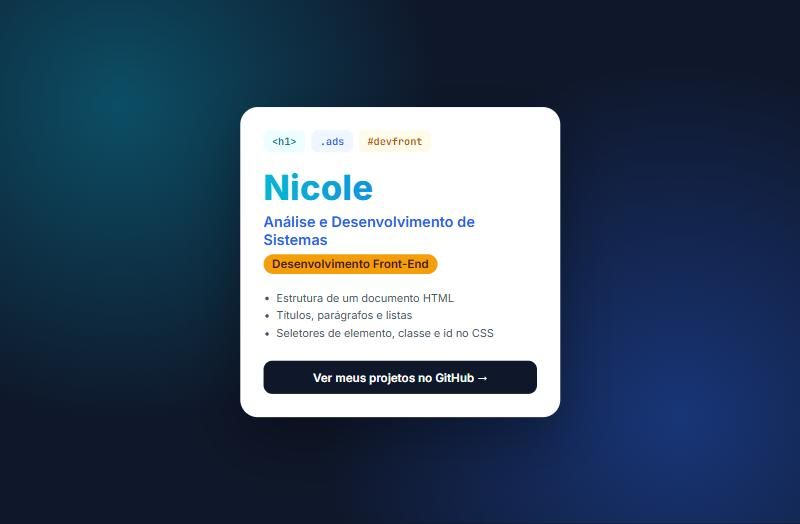
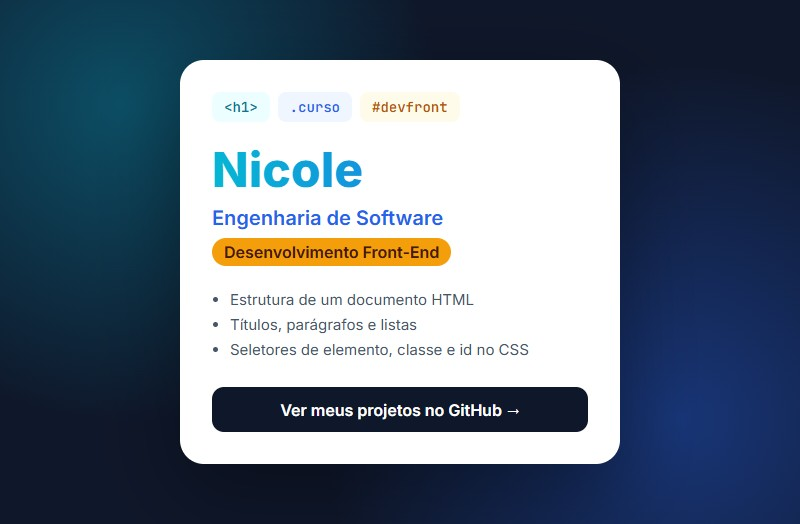
Curso atualizado para Engenharia de Software e classe .ads renomeada para .curso

Changed region(s): [[0.2188, 0.0916, 0.7812, 0.8855]]

diff --git a/index.html b/index.html
@@ -3,7 +3,7 @@
 <head>
   <meta charset="UTF-8">
   <meta name="viewport" content="width=device-width, initial-scale=1.0">
-  <meta name="description" content="Página de apresentação feita na primeira aula de HTML do curso de Análise e Desenvolvimento de Sistemas.">
+  <meta name="description" content="Cartão de apresentação feito na primeira aula de HTML, na disciplina de Desenvolvimento Front-End.">
   <title>Nicole · Introdução ao HTML</title>
   <link rel="preconnect" href="https://fonts.googleapis.com">
   <link rel="preconnect" href="https://fonts.gstatic.com" crossorigin>
@@ -14,20 +14,20 @@
   <main class="cartao">
     <div class="ilustracao" aria-hidden="true">
       <span class="tag">&lt;h1&gt;</span>
-      <span class="tag tag--classe">.ads</span>
+      <span class="tag tag--classe">.curso</span>
       <span class="tag tag--id">#devfront</span>
     </div>
 
     <!-- Seletor de elemento: h1 -->
     <h1>Nicole</h1>
 
-    <!-- Seletor de classe: .ads (pode ser usado em vários elementos) -->
-    <p class="ads">Análise e Desenvolvimento de Sistemas</p>
+    <!-- Seletor de classe: .curso (pode ser usado em vários elementos) -->
+    <p class="curso">Engenharia de Software</p>
 
     <!-- Seletor de id: #devfront (único na página) -->
     <p id="devfront">Desenvolvimento Front-End</p>
 
-    <ul class="ads conceitos" aria-label="O que esta página pratica">
+    <ul class="curso conceitos" aria-label="O que esta página pratica">
       <li>Estrutura de um documento HTML</li>
       <li>Títulos, parágrafos e listas</li>
       <li>Seletores de elemento, classe e id no CSS</li>

diff --git a/main.css b/main.css
@@ -1,7 +1,7 @@
 /*
  * Esta página pratica os três tipos básicos de seletor do CSS:
  *   h1        → seletor de elemento (todos os <h1>)
- *   .ads      → seletor de classe (todos os elementos com class="ads")
+ *   .curso    → seletor de classe (todos os elementos com class="curso")
  *   #devfront → seletor de id (o único elemento com id="devfront")
  */
 
@@ -80,7 +80,7 @@ h1 {
 }
 
 /* Seletor de classe */
-.ads {
+.curso {
   margin-top: 12px;
   font-size: 1.25rem;
   font-weight: 600;
@@ -98,7 +98,7 @@ h1 {
   font-weight: 600;
 }
 
-/* Lista também usa a classe .ads: mesma cor, ajustada para lista */
+/* Lista também usa a classe .curso: mesma cor, ajustada para lista */
 .conceitos {
   display: grid;
   gap: 6px;

diff --git a/README.md b/README.md
@@ -1,6 +1,6 @@
 # 👋 Introdução ao HTML
 
-Página de apresentação feita na **primeira aula de HTML** do curso de **Análise e Desenvolvimento de Sistemas**, na disciplina de Desenvolvimento Front-End. Pratica a estrutura de um documento HTML e os três tipos básicos de seletor do CSS.
+Cartão de apresentação feito na **primeira aula de HTML**, na disciplina de **Desenvolvimento Front-End**. Pratica a estrutura de um documento HTML e os três tipos básicos de seletor do CSS.
 
 <p align="center">
   <img src="docs/screenshot.jpg" alt="Cartão de apresentação com o nome Nicole, o curso e a disciplina" width="640">
@@ -11,7 +11,7 @@ Página de apresentação feita na **primeira aula de HTML** do curso de **Anál
 | Seletor | Exemplo | Onde aparece |
 |---|---|---|
 | Elemento | `h1 { … }` | O nome, com texto em degradê |
-| Classe | `.ads { … }` | O curso e a lista de conceitos (a mesma classe em dois elementos) |
+| Classe | `.curso { … }` | O curso e a lista de conceitos (a mesma classe em dois elementos) |
 | Id | `#devfront { … }` | A etiqueta da disciplina (um único elemento) |
 
 O [`main.css`](main.css) tem comentários explicando cada um.
